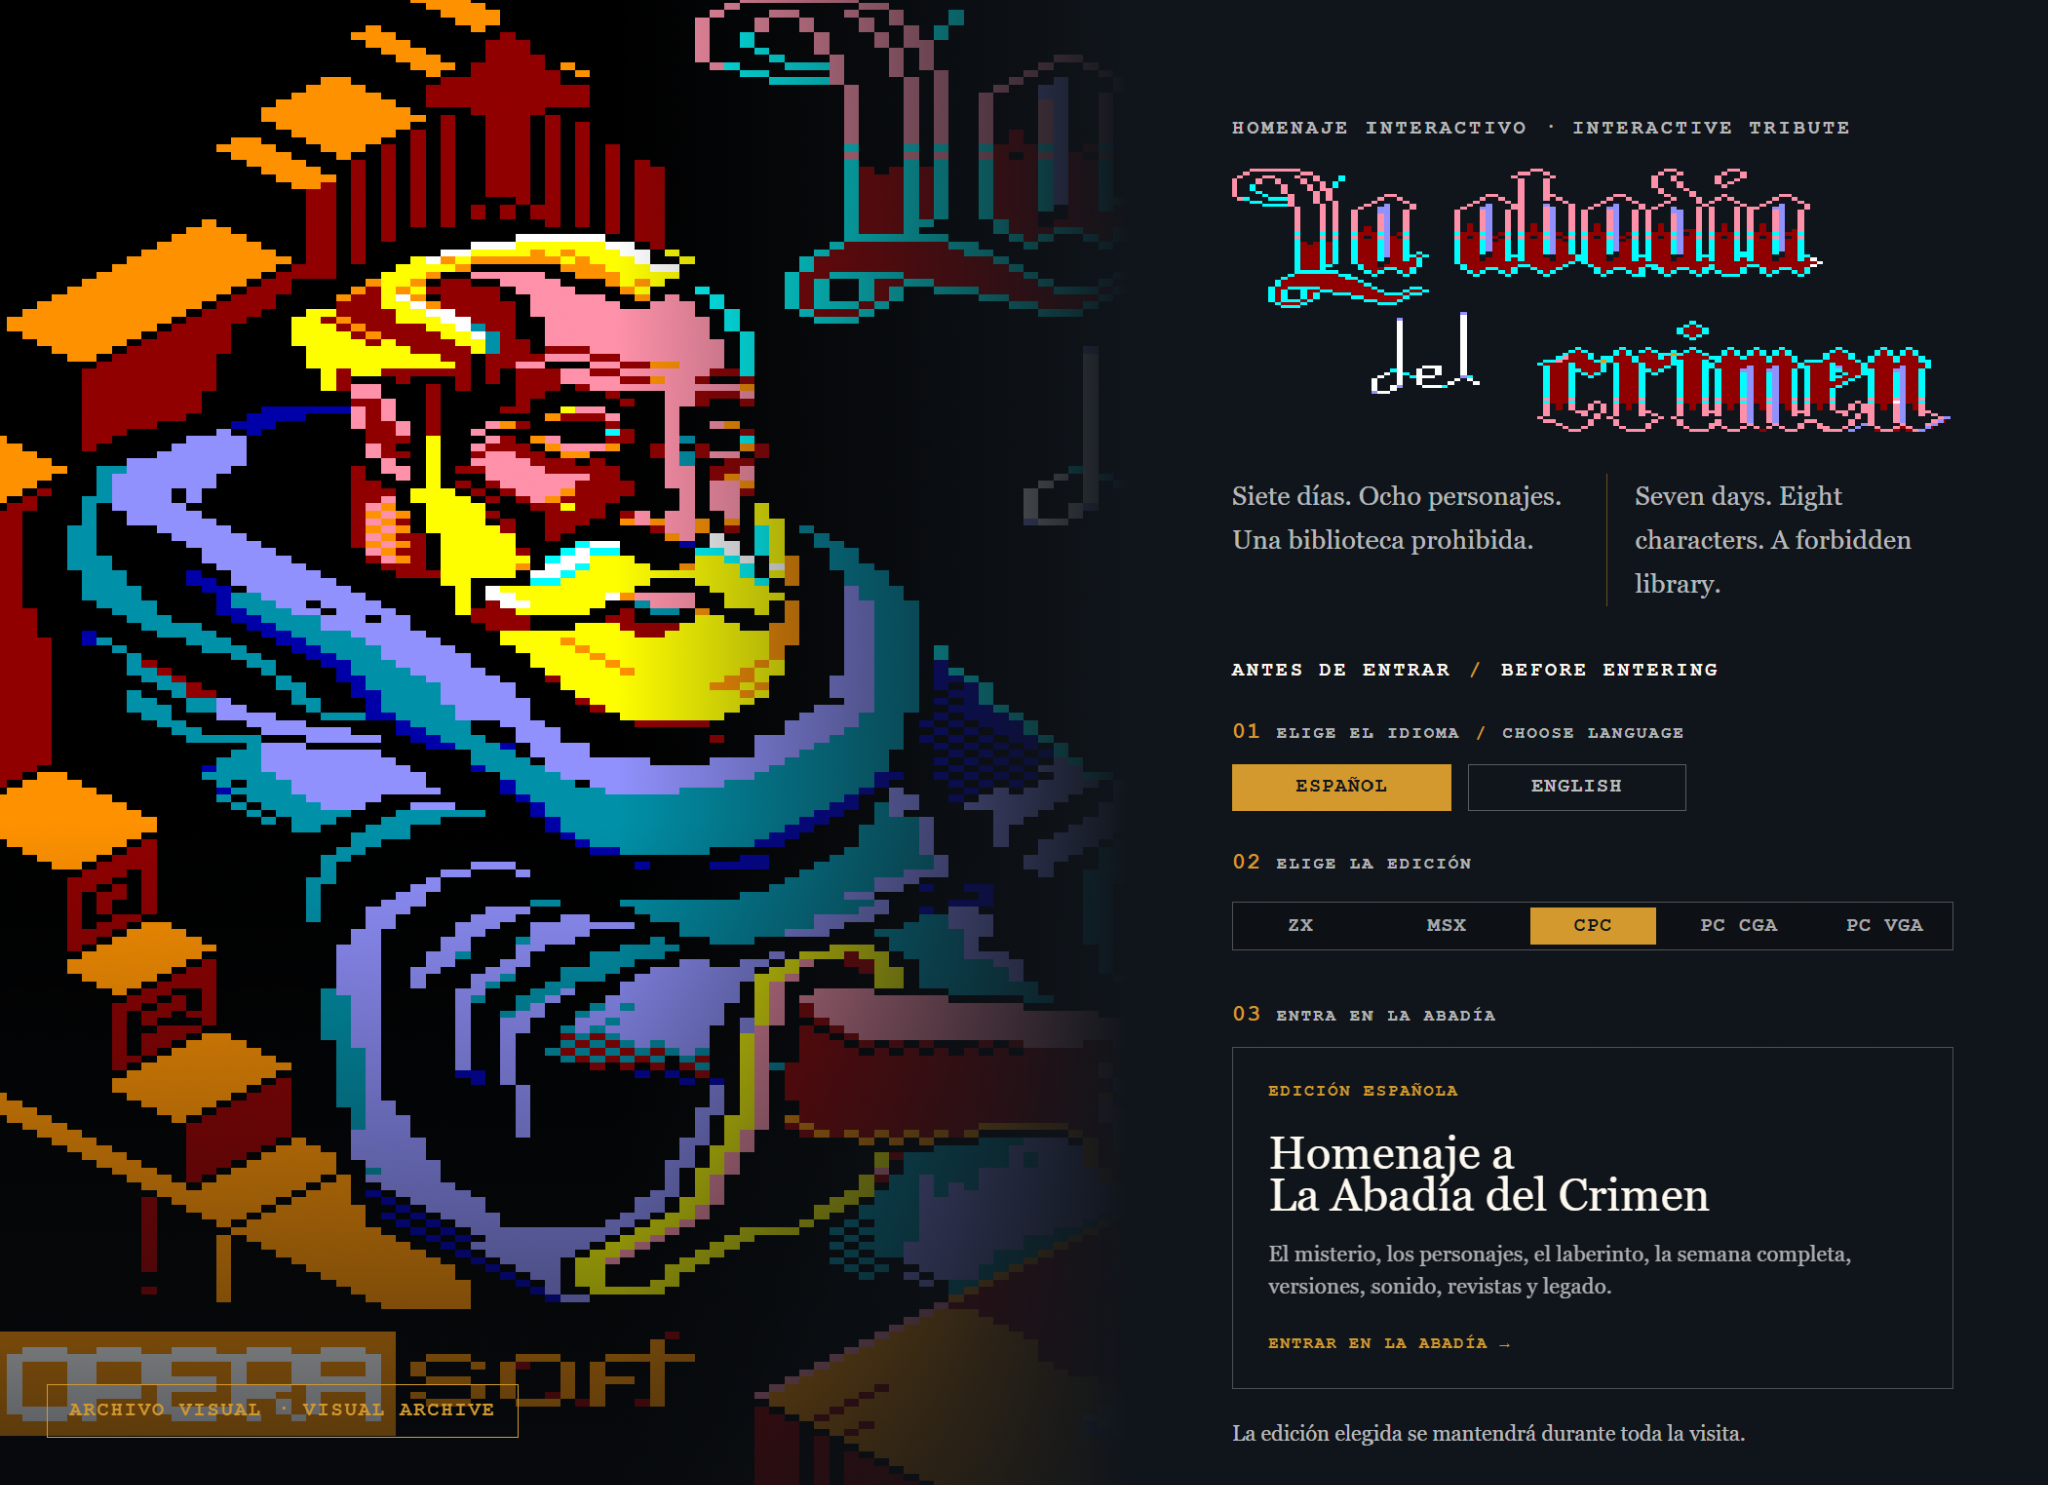
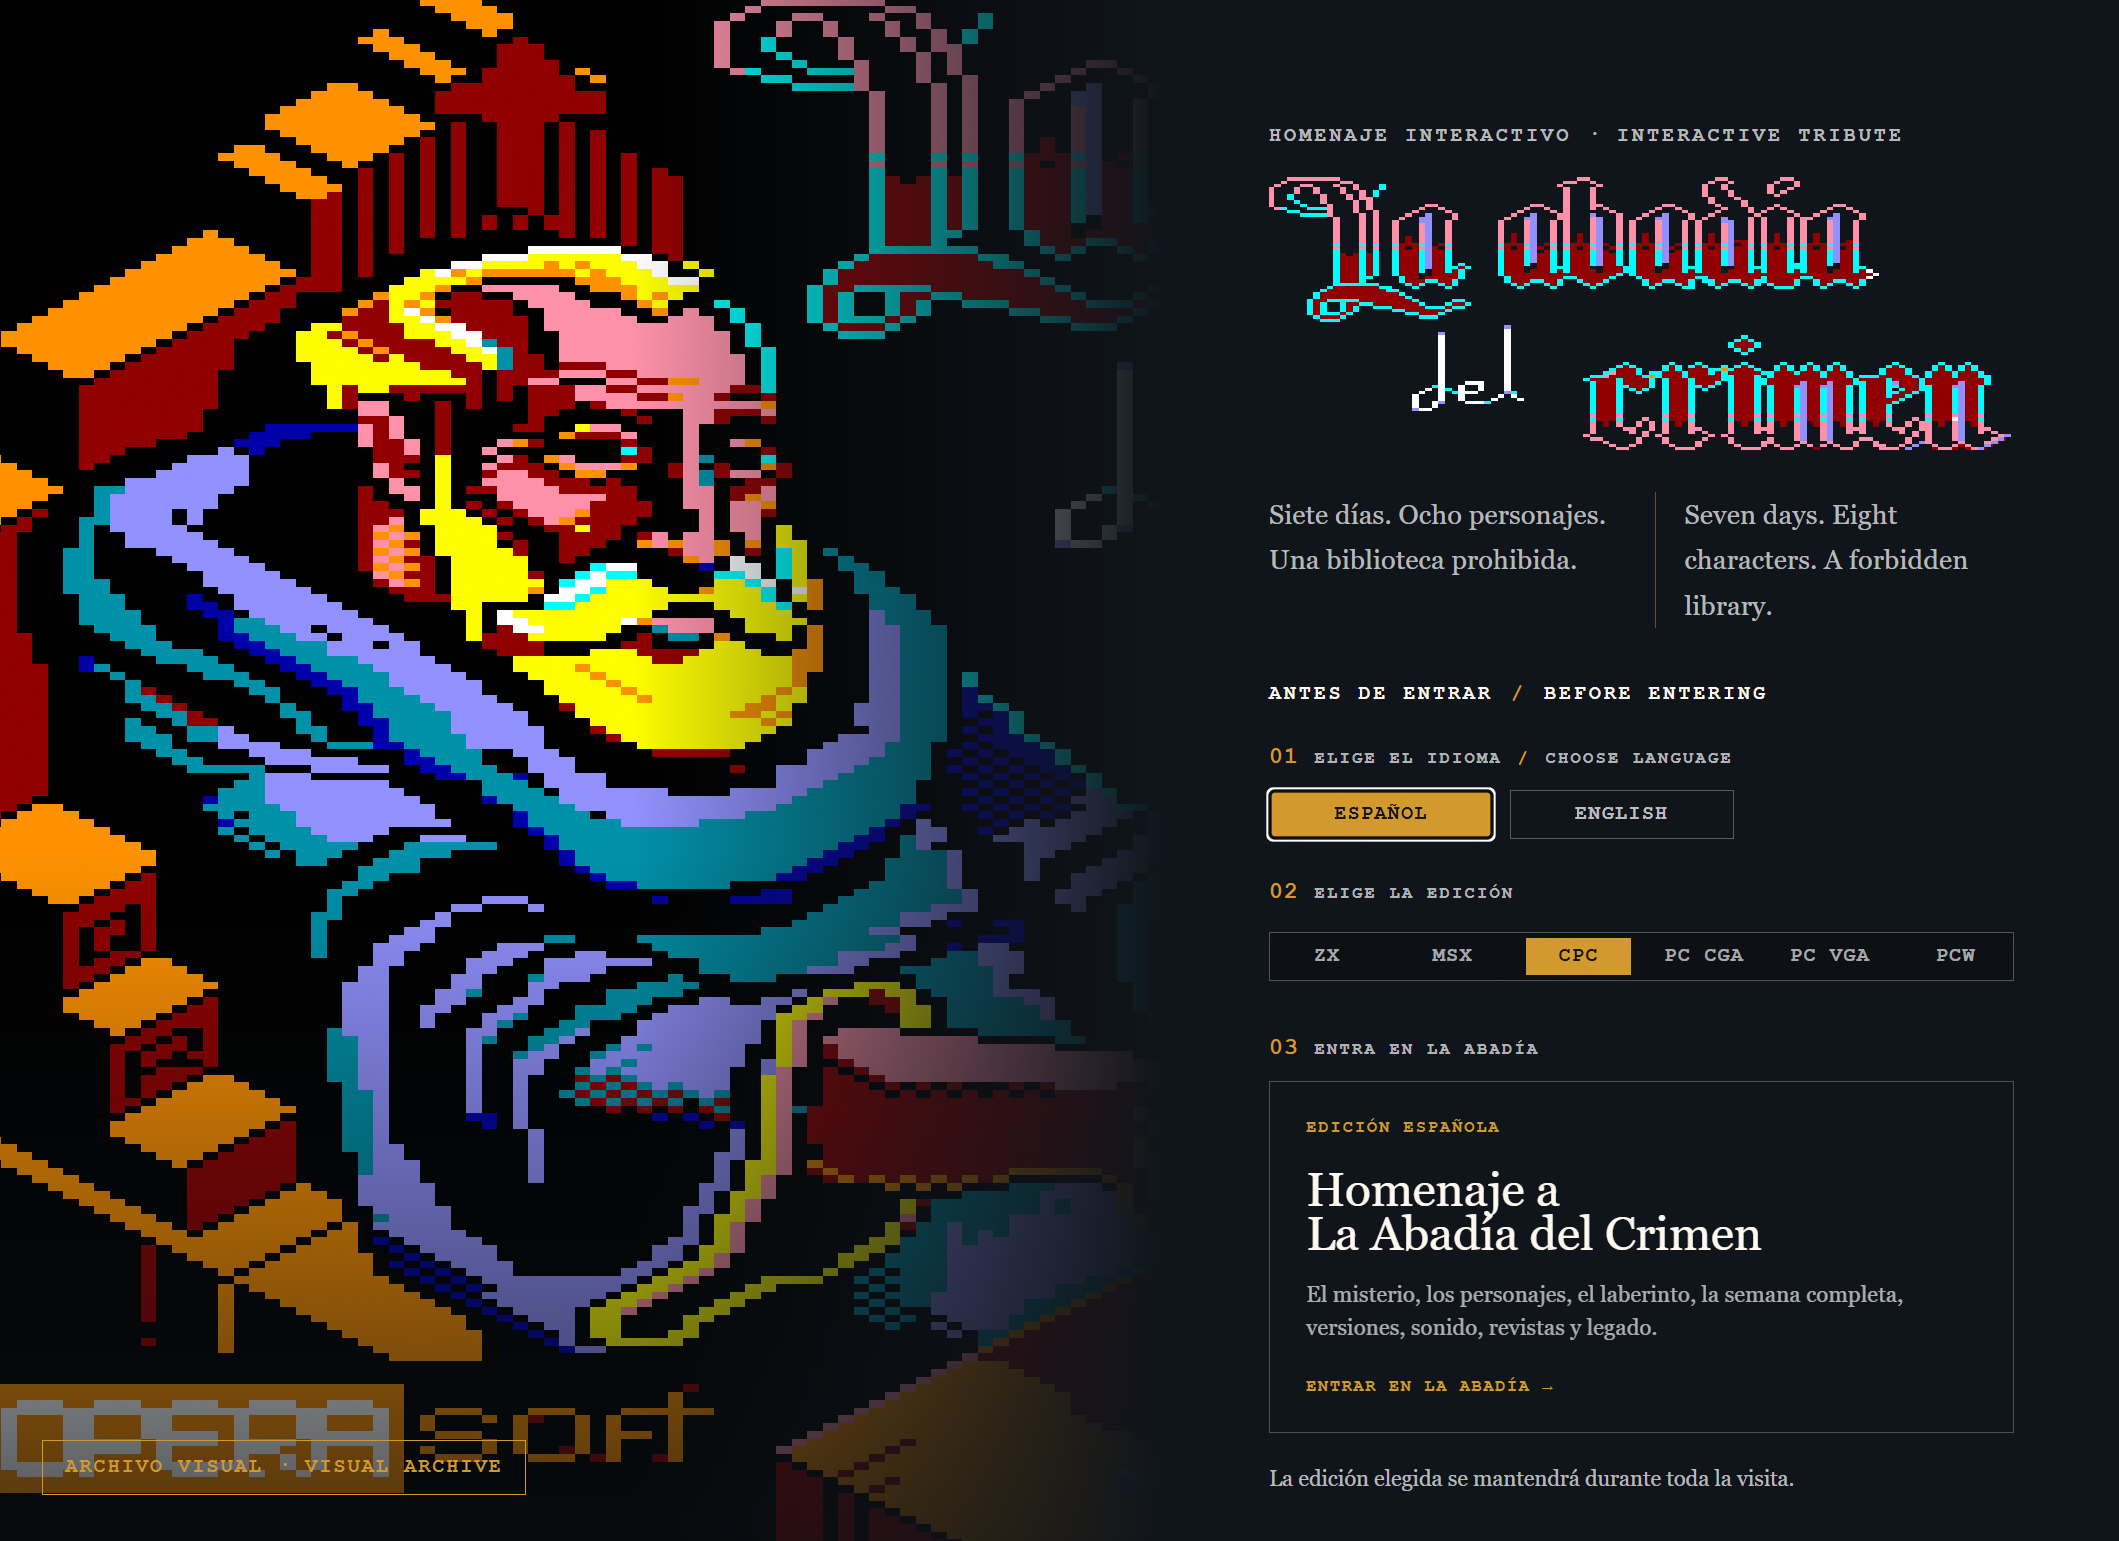
Document PCW support in README
Update the project README to mention the PCW platform in the room atlas, manuscript, and sound archive descriptions, and refresh the language gate preview image to match the revised wording.

diff --git a/README.md b/README.md
@@ -62,7 +62,7 @@ Este homenaje no se limita a contar la historia de *La Abadía del Crimen*: perm
 
   ![Atlas de las estancias de la abadía](assets/readme/preview-room-atlas-cropped.png)
 
-  El atlas sitúa 93 estancias en su posición real: 61 en la planta principal, 16 en el scriptorium y 16 en la biblioteca. Puedes abrir cualquiera a tamaño completo, desplazarte espacialmente a las contiguas con teclado, controles en pantalla o gestos, alternar día y noche y comparar CPC, ZX Spectrum, MSX, PC CGA y el remake PC VGA. El mapa ampliado de *Extensum* añade 140 estancias cartografiadas, distribuidas por plantas y explorables de día y de noche.
+  El atlas sitúa 93 estancias en su posición real: 61 en la planta principal, 16 en el scriptorium y 16 en la biblioteca. Puedes abrir cualquiera a tamaño completo, desplazarte espacialmente a las contiguas con teclado, controles en pantalla o gestos, alternar día y noche y comparar CPC, ZX Spectrum, MSX, PC CGA, PCW y el remake PC VGA. El mapa ampliado de *Extensum* añade 140 estancias cartografiadas, distribuidas por plantas y explorables de día y de noche.
   </details>
 
 - <details>
@@ -78,7 +78,7 @@ Este homenaje no se limita a contar la historia de *La Abadía del Crimen*: perm
 
   ![Manuscrito reconstruido trazo a trazo](assets/readme/preview-manuscript-cropped.png)
 
-  No son textos que simplemente aparecen: cada letra se traza píxel a píxel, con sus pausas y pasos de página. Los controles permiten reproducir, pausar, completar la página, reiniciar y cambiar la velocidad. La versión gráfica seleccionada transforma el manuscrito y activa su música correspondiente en CPC, ZX Spectrum, MSX, PC CGA o VGA.
+  No son textos que simplemente aparecen: cada letra se traza píxel a píxel, con sus pausas y pasos de página. Los controles permiten reproducir, pausar, completar la página, reiniciar y cambiar la velocidad. La versión gráfica seleccionada transforma el manuscrito y activa su música correspondiente en CPC, ZX Spectrum, MSX, PC CGA, PCW o remake VGA.
   </details>
 
 - <details>
@@ -94,7 +94,7 @@ Este homenaje no se limita a contar la historia de *La Abadía del Crimen*: perm
 
   ![Archivo sonoro de La Abadía](assets/readme/preview-ave-maria-cropped.png)
 
-  El archivo sonoro permite reproducir la muestra digital original de *Ave María* del PC, la acusación «pirata», melodías reconstruidas desde el ejecutable DOS, pasos y efectos, además de recreaciones del sonido del Amstrad CPC conservado por Vigasoco.
+  El archivo sonoro permite reproducir la muestra digital original de *Ave María* del PC, la acusación «pirata», melodías reconstruidas desde el ejecutable DOS, pasos y efectos, además de recreaciones del sonido del Amstrad CPC y del PCW.
   </details>
 
 - <details>
@@ -158,7 +158,7 @@ This tribute does more than tell the story of *La Abadía del Crimen*: it lets y
 
   ![Atlas of the abbey rooms](assets/readme/preview-room-atlas-cropped.png)
 
-  The atlas places 93 rooms in their real positions: 61 on the main floor, 16 in the scriptorium, and 16 in the library. Open any room at full size, move spatially to its neighbours with the keyboard, on-screen controls, or gestures, switch between day and night, and compare CPC, ZX Spectrum, MSX, PC CGA, and the PC VGA remake. The expanded *Extensum* map adds 140 mapped rooms across its floors, explorable by day and night.
+  The atlas places 93 rooms in their real positions: 61 on the main floor, 16 in the scriptorium, and 16 in the library. Open any room at full size, move spatially to its neighbours with the keyboard, on-screen controls, or gestures, switch between day and night, and compare CPC, ZX Spectrum, MSX, PC CGA, PCW, and the PC VGA remake. The expanded *Extensum* map adds 140 mapped rooms across its floors, explorable by day and night.
   </details>
 
 - <details>
@@ -174,7 +174,7 @@ This tribute does more than tell the story of *La Abadía del Crimen*: it lets y
 
   ![Manuscript reconstructed stroke by stroke](assets/readme/preview-manuscript-cropped.png)
 
-  These are not blocks of text that simply appear: every letter is drawn pixel by pixel, with the original pauses and page turns. Play, pause, complete a page, restart, or change speed. The selected graphical version transforms the manuscript and supplies its matching CPC, ZX Spectrum, MSX, PC CGA, or VGA music.
+  These are not blocks of text that simply appear: every letter is drawn pixel by pixel, with the original pauses and page turns. Play, pause, complete a page, restart, or change speed. The selected graphical version transforms the manuscript and supplies its matching CPC, ZX Spectrum, MSX, PC CGA, PCW, or VGA remake music.
   </details>
 
 - <details>
@@ -190,7 +190,7 @@ This tribute does more than tell the story of *La Abadía del Crimen*: it lets y
 
   ![The abbey's sound archive](assets/readme/preview-ave-maria-cropped.png)
 
-  The sound archive plays the PC version’s original digital *Ave Maria* sample, the “pirata” accusation, melodies reconstructed from the DOS executable, footsteps and effects, alongside recreations of the Amstrad CPC sound preserved by Vigasoco.
+  The sound archive plays the PC version’s original digital *Ave Maria* sample, the “pirata” accusation, melodies reconstructed from the DOS executable, footsteps and effects, alongside recreations of the Amstrad CPC and PCW sound.
   </details>
 
 - <details>
